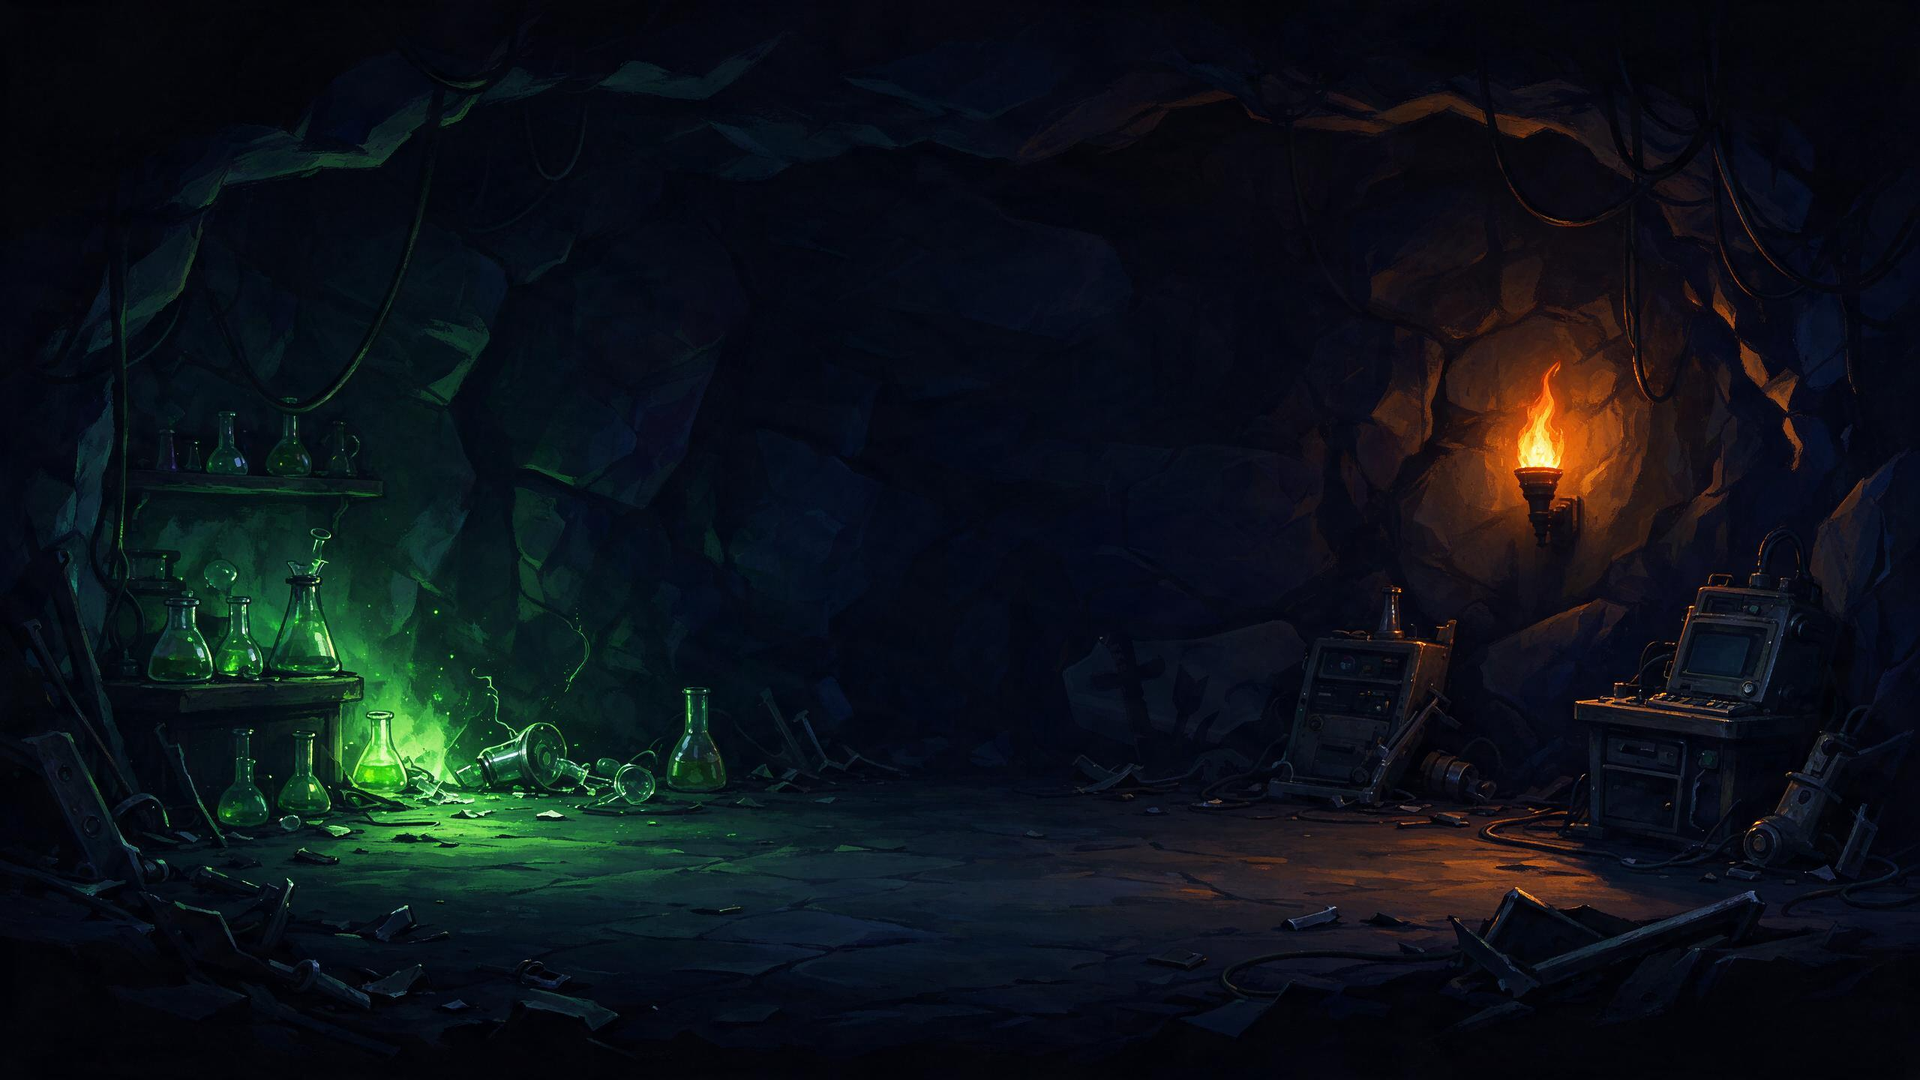
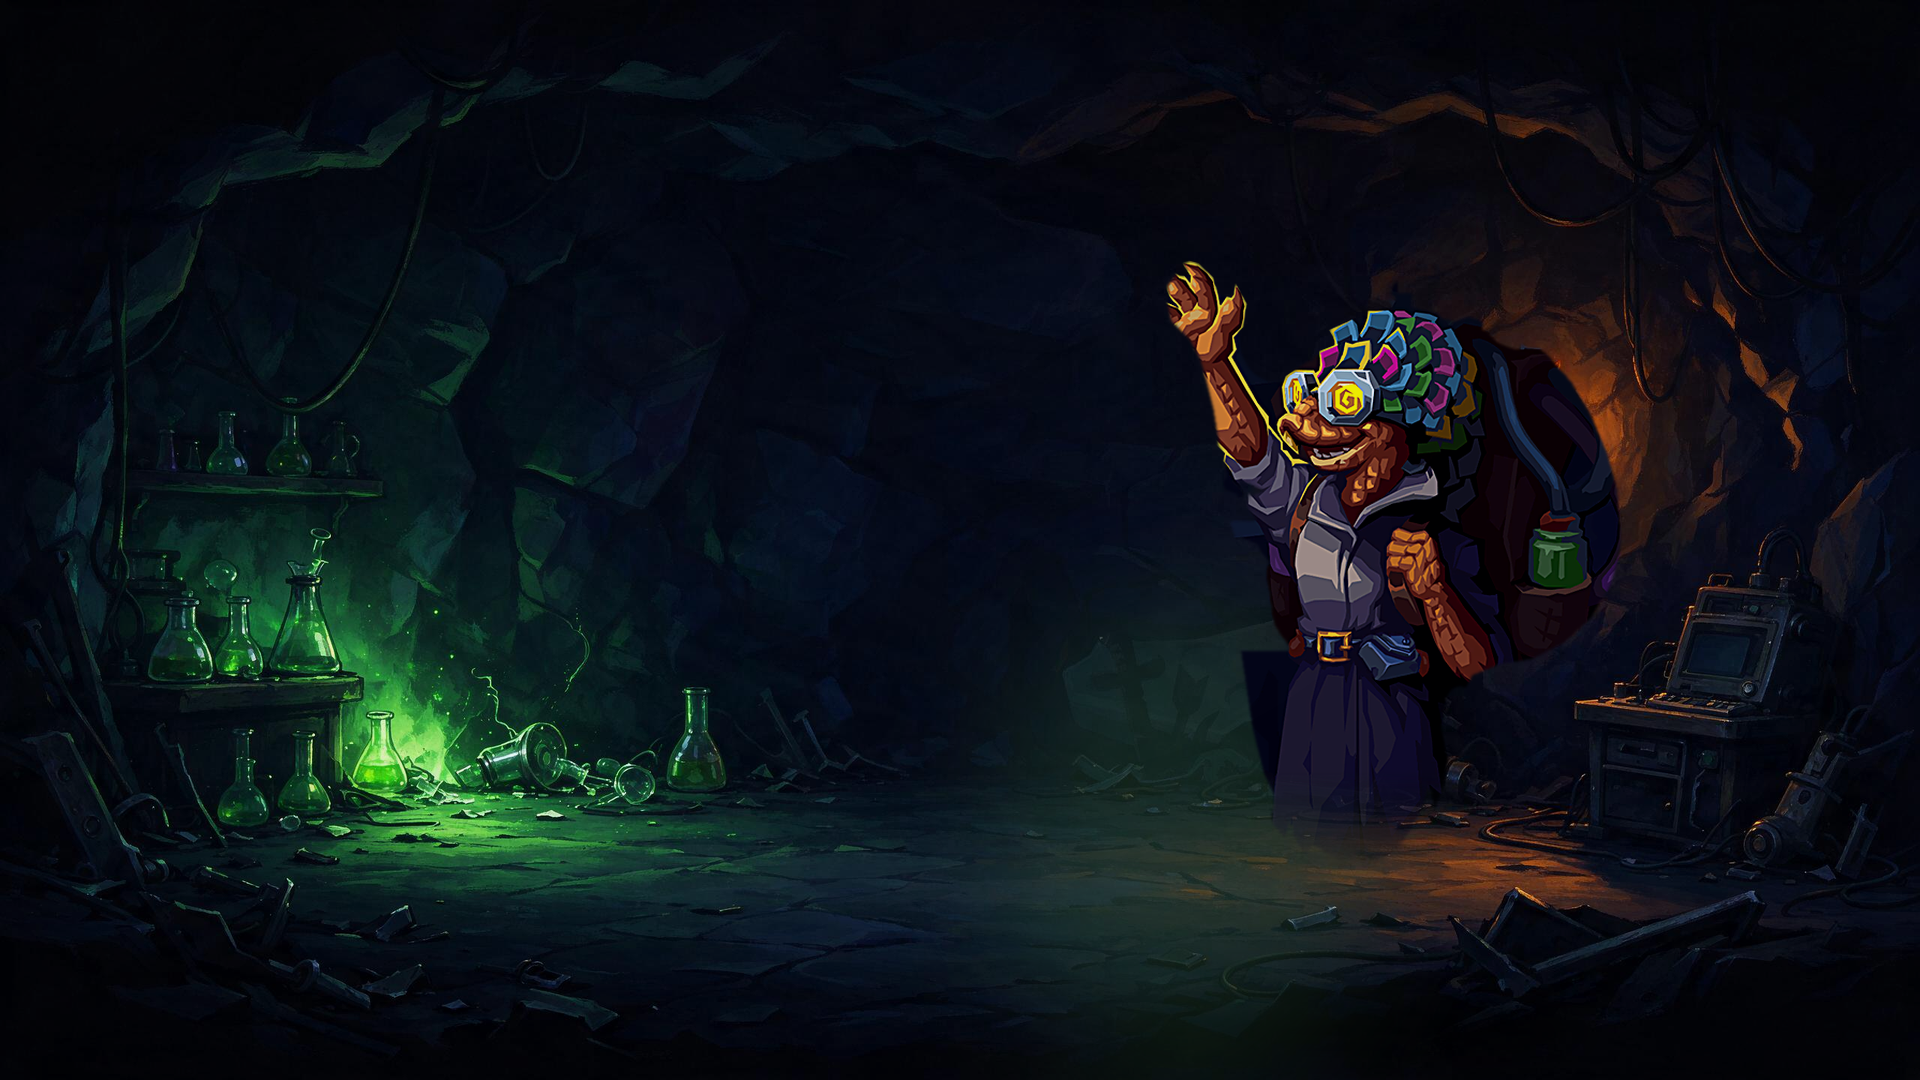
art: bake character into character-select background (vanilla layout)

Changed region(s): [[0.5312, 0.2444, 0.8438, 0.7944], [0.5938, 0.8861, 0.625, 0.9167]]

diff --git a/art/compose_select_bg.py b/art/compose_select_bg.py
@@ -1,0 +1,97 @@
+"""Compose the character select background with the character standing on it.
+
+The base game draws the big character as part of the character-select background
+scene (a Spine diorama), not from char_select_*.png — that small portrait is only
+the button art.  So for this mod we bake the event-art cutout into the right half
+of the background, where the vanilla characters stand (the info panel is on the
+left).
+
+Run: python art/compose_select_bg.py
+"""
+from __future__ import annotations
+
+from pathlib import Path
+
+import numpy as np
+from PIL import Image, ImageDraw, ImageFilter
+
+ROOT = Path(__file__).resolve().parent.parent
+IMG = ROOT / "MadScientist" / "images"
+EMPTY = ROOT / "art" / "incoming" / "assets" / "select_bg.png"   # clean cave, no character
+CUTOUT = ROOT / "art" / "ref" / "event_cutout.png"
+
+CANVAS = (1920, 1080)
+FIG_HEIGHT = 800
+FEET_Y = 1030
+CENTER_X = 1345
+FLIP = True  # face left, towards the info panel
+
+
+def main() -> None:
+    bg = Image.open(EMPTY).convert("RGB")
+    # cover the canvas
+    bw, bh = bg.size
+    target = CANVAS[0] / CANVAS[1]
+    if bw / bh > target:
+        nw = int(bh * target)
+        bg = bg.crop(((bw - nw) // 2, 0, (bw - nw) // 2 + nw, bh))
+    else:
+        nh = int(bw / target)
+        bg = bg.crop((0, (bh - nh) // 2, bw, (bh - nh) // 2 + nh))
+    bg = bg.resize(CANVAS, Image.LANCZOS)
+    canvas = bg.convert("RGBA")
+
+    fig = Image.open(CUTOUT).convert("RGBA")
+    if FLIP:
+        fig = fig.transpose(Image.FLIP_LEFT_RIGHT)
+    s = FIG_HEIGHT / fig.height
+    fig = fig.resize((max(1, int(fig.width * s)), FIG_HEIGHT), Image.LANCZOS)
+
+    # slight colour match to the cave: a bit darker, a touch cooler in the shadows
+    arr = np.asarray(fig).astype(np.float32)
+    arr[:, :, :3] *= 0.93
+    arr[:, :, 2] = np.clip(arr[:, :, 2] * 1.03 + 2, 0, 255)
+    fig = Image.fromarray(arr.astype(np.uint8), "RGBA")
+
+    x = CENTER_X - fig.width // 2
+    y = FEET_Y - fig.height
+
+    # contact shadow
+    shadow = Image.new("L", CANVAS, 0)
+    sd = ImageDraw.Draw(shadow)
+    sw, sh = int(fig.width * 0.78), 54
+    sd.ellipse((CENTER_X - sw // 2, FEET_Y - sh // 2, CENTER_X + sw // 2, FEET_Y + sh // 2), fill=150)
+    shadow = shadow.filter(ImageFilter.GaussianBlur(18))
+    shadow_layer = Image.new("RGBA", CANVAS, (0, 0, 0, 0))
+    shadow_layer.putalpha(shadow)
+    canvas.alpha_composite(shadow_layer)
+
+    # green bounce light from the lab flasks on the left side of the figure
+    glow = Image.new("L", CANVAS, 0)
+    gd = ImageDraw.Draw(glow)
+    gd.ellipse((x - 40, y + fig.height * 0.45, x + fig.width * 0.55,
+                FEET_Y + 40), fill=70)
+    glow = glow.filter(ImageFilter.GaussianBlur(60))
+    glow_layer = Image.new("RGBA", CANVAS, (60, 120, 70, 0))
+    glow_layer.putalpha(glow)
+    canvas.alpha_composite(glow_layer)
+
+    canvas.alpha_composite(fig, (x, y))
+
+    # subtle vignette so the character sits in the scene
+    yy, xx = np.mgrid[0:CANVAS[1], 0:CANVAS[0]]
+    dx = (xx - CANVAS[0] / 2) / (CANVAS[0] / 2)
+    dy = (yy - CANVAS[1] / 2) / (CANVAS[1] / 2)
+    r = np.sqrt(dx * dx + dy * dy)
+    v = np.clip(1.0 - 0.30 * np.clip(r - 0.45, 0, 1.0) ** 1.5, 0.55, 1.0)
+    arr = np.asarray(canvas).astype(np.float32)
+    arr[:, :, :3] *= v[..., None]
+    canvas = Image.fromarray(np.clip(arr, 0, 255).astype(np.uint8), "RGBA")
+
+    canvas.convert("RGB").save(IMG / "events" / "select_bg.png")
+    canvas.convert("RGB").save(ROOT / "docs" / "select_bg_composed.png")
+    print("composited", canvas.size, "figure at", (x, y), fig.size)
+
+
+if __name__ == "__main__":
+    main()

diff --git a/art/preview_sheet.py b/art/preview_sheet.py
@@ -23,13 +23,8 @@ GREEN = (168, 224, 95)
 
 
 def select_mockup() -> None:
-    bg = Image.open(IMG / "events" / "select_bg.png").convert("RGB").resize((1920, 1080))
-    canvas = bg.convert("RGBA")
-
-    portrait = Image.open(IMG / "charui" / "char_select_mad_scientist.png").convert("RGBA")
-    scale = 3.4
-    p = portrait.resize((int(portrait.width * scale), int(portrait.height * scale)), Image.LANCZOS)
-    canvas.alpha_composite(p, (250, 1080 - p.height - 90))
+    """The select screen look: background already contains the character."""
+    canvas = Image.open(IMG / "events" / "select_bg.png").convert("RGBA").resize((1920, 1080))
 
     d = ImageDraw.Draw(canvas)
     f_title = ImageFont.truetype(FONT_B, 64)
@@ -37,12 +32,12 @@ def select_mockup() -> None:
     d.text((250, 120), "疯狂科学家", font=f_title, fill=GREEN, stroke_width=5, stroke_fill=(8, 12, 9, 255))
     d.text((252, 200), "THE MAD SCIENTIST", font=f_sub, fill=(226, 236, 220), stroke_width=3, stroke_fill=(8, 12, 9, 255))
 
-    # fake info panel on the right, just for composition
+    # fake info panel on the left, just for composition
     panel = Image.new("RGBA", (470, 560), (12, 16, 13, 170))
-    canvas.alpha_composite(panel, (1330, 260))
-    d.text((1362, 300), "生命 70 / 70", font=ImageFont.truetype(FONT, 34), fill=(230, 235, 225))
-    d.text((1362, 360), "初始遗物：燃烧之血（占位）", font=ImageFont.truetype(FONT, 26), fill=(190, 200, 185))
-    d.text((1362, 420), "卡池：疯狂科学家", font=ImageFont.truetype(FONT, 26), fill=(190, 200, 185))
+    canvas.alpha_composite(panel, (180, 260))
+    d.text((212, 300), "生命 70 / 70", font=ImageFont.truetype(FONT, 34), fill=(230, 235, 225))
+    d.text((212, 360), "初始遗物：燃烧之血（占位）", font=ImageFont.truetype(FONT, 26), fill=(190, 200, 185))
+    d.text((212, 420), "卡池：疯狂科学家", font=ImageFont.truetype(FONT, 26), fill=(190, 200, 185))
     canvas.convert("RGB").save(DOCS / "select_mockup.png")
 
 
